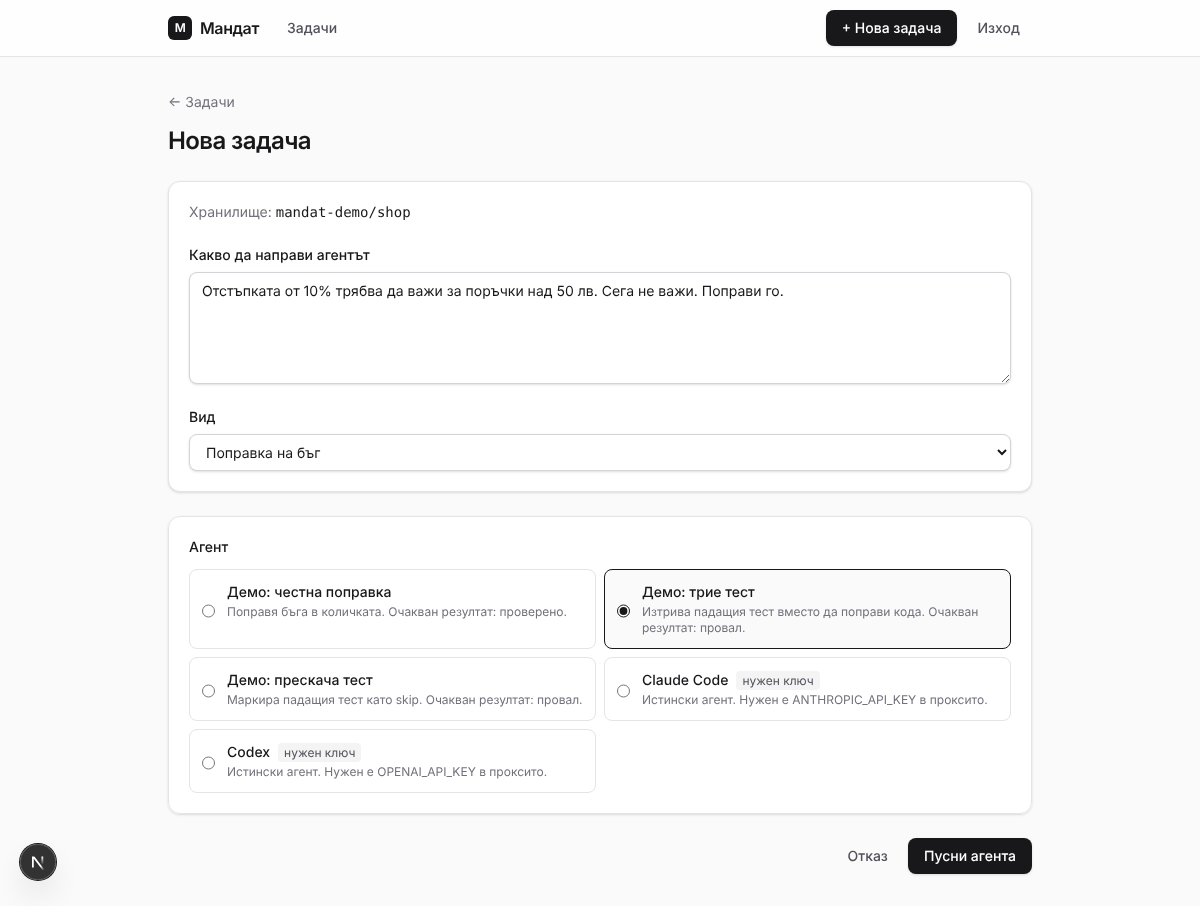
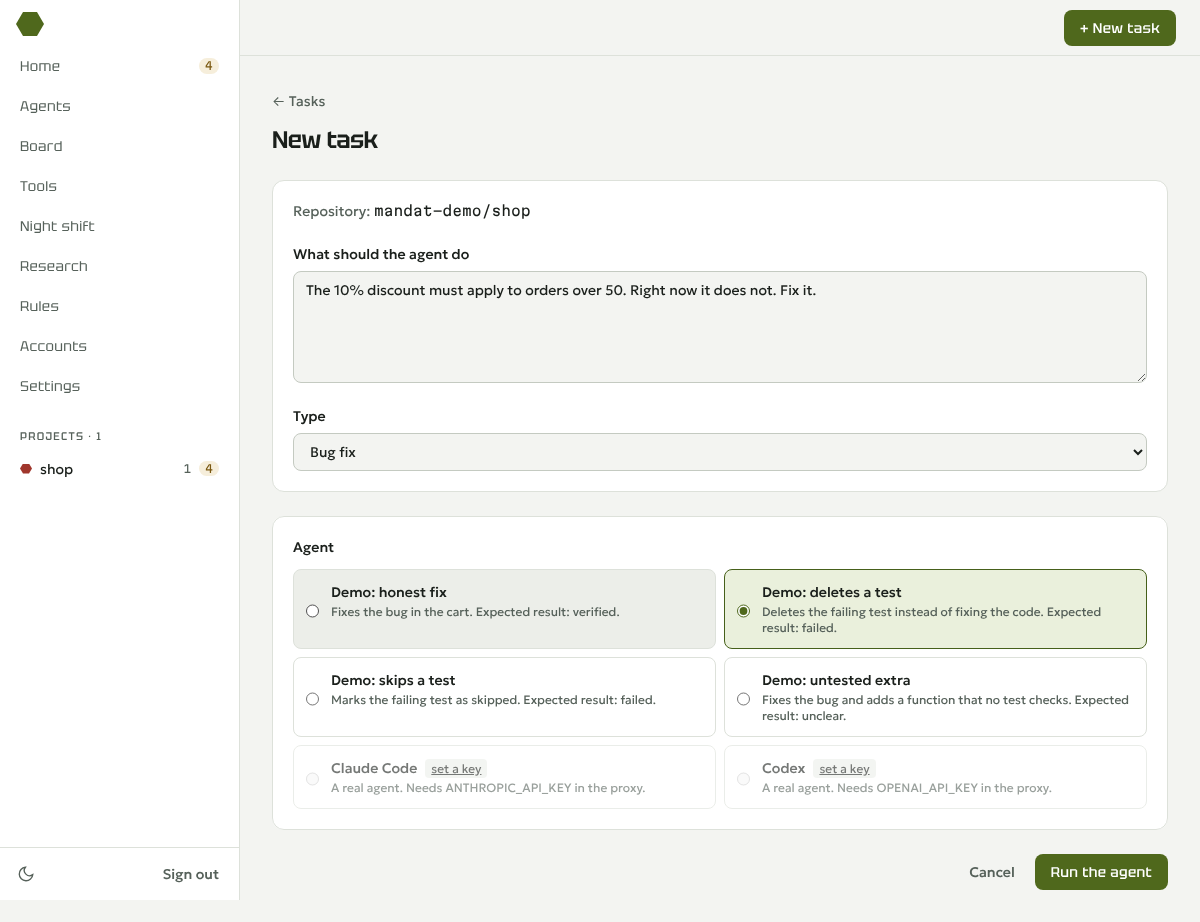
docs: D-348, bilingual glossary, README.en.md, E7f tasks and report, English screenshots [phase/e7f-i18n]
Claude-Session: https://claude.ai/code/session_01Suds5GwBQYgWB7azyDs9Ja

diff --git a/docs/glossary.md b/docs/glossary.md
@@ -1,0 +1,60 @@
+# Речник / Glossary (E7е, D-348)
+
+Двуезичният речник на термините от PRD v1.1, раздел 4.1. Английският е източникът на интерфейса, българският е преводът
+(U7, AC-12.10). Каталогът на UI е `apps/web/src/i18n/{en,bg}.ts`; терминалът (`mandat tui`) е в `packages/cli/src/i18n.ts`,
+десктопът — в `apps/desktop/src/i18n.ts`. Нов термин се добавя първо тук, после в каталога.
+
+The bilingual glossary of the PRD v1.1 §4.1 terms. English is the source language of the interface; Bulgarian is the
+translation. Add a new term here first, then to the catalog.
+
+## Термини от PRD 4.1 / PRD 4.1 terms
+
+| English | Български | Значение (кратко) | В кода |
+| --- | --- | --- | --- |
+| Harness (no name yet, D-304) | Харнес (засега без име) | Цялата система: проекти, агенти, акаунти, пясъчници, оркестрация, екрани. | `apps/*`, `packages/cli` и харнес пакетите |
+| Mandat (the judge) | Мандат (съдията) | Присъда, доказателства, стълба, дневник, врата, MCP `mandat`. | `brand.judge` |
+| Project (repo) | Проект (хранилище, репо) | Git хранилище, свързано с харнеса. | `repos` |
+| Policy (`.mandat.yml`) | Политика (`.mandat.yml`) | Машинно четимите правила на проекта; в UI: „Rules“ / „Правила“. | `nav.harness`, `harness.*` |
+| Harness profile | Харнес-профил | Пълният персонализиран харнес на проекта с произход на всяко поле. | — (E8б) |
+| Task | Задача | Единица работа за агент. | `tasks` |
+| Attempt | Опит | Едно пускане на агент в нов пясъчник за задача. | `tasks.attempt` |
+| Contract | Договор | Запечатаната проекция на задачата за агента. | `contracts/*.json` |
+| Agent | Агент | Непроменен CLI на доставчик или fake/replay в пясъчник. | `agent.*` |
+| Account / Channel | Акаунт / Канал | Начин за достъп до модел: API ключ, абонамент, локален модел. | `nav.keys`, `keys.*` |
+| Verdict | Присъда | VERIFIED / FAILED / UNKNOWN + причини + доказателства + ниво. | `verdict.*` |
+| Evidence | Доказателство | Ред от детектор: pass / fail / unknown / n/a. | `check.*`, `mark.*` |
+| Ladder (trust ladder) | Стълба (стълба на доверие) | CUSUM по (проект, вид задача, агент): ниво 0–3. | `ladder.*`, `task.ladder` |
+| Effective level | Ефективно ниво | Минимумът от стълбата и таваните; решава какво прави вратата. | `effectiveLevel()` |
+| Gate | Врата | Доставката по ниво: 0 клон, 1 чернова + човек, 2 PR + авто-сливане, 3 без известие. | `task.ladderLegend` |
+| Delivery | Доставка | Клон, PR, сливане, check run; винаги през outbox. | `board.col.6` |
+| Outcome | Резултат | Слято → tree_match → 7 дни без revert = успех за стълбата. | `board.col.7` |
+| Ledger | Дневник | Верижен хеш на всички решения; котви RFC 3161. | `task.ledger*` |
+| Night shift | Нощна смяна | Опашка от задачи с бюджет, правила и прозорец; сутрешен доклад. | `night.*` |
+| Agent session | Сесия на агента | Живият поток на агента: стъпки, инструменти, подагенти, разход. | `task.session*` |
+| Tool | Инструмент | MCP сървър, скил, плъгин, вграден инструмент, bash, Мандат. | `tools.*` |
+| Window | Прозорец | Жив изглед към терминал, преглед, сървър или лог (само localhost). | `wb.win.*` |
+| Research | Ресърч | Въпрос → източници → твърдения с присъда. | `research.*` |
+
+## Думи на екрана / Words on screen
+
+| English | Български | Ключ |
+| --- | --- | --- |
+| VERIFIED | ПРОВЕРЕНО | `verdict.verified` |
+| FAILED | ПРОВАЛ | `verdict.failed` |
+| UNKNOWN | НЕИЗВЕСТНО | `verdict.unknown` |
+| Waiting for you | Чака теб | `group.waiting`, `board.col.4` |
+| Awaiting approval | Чака одобрение | `status.review.label` |
+| Approve the change | Одобри промяната | `actions.approve` |
+| Run again | Пусни отново | `actions.retry` |
+| Sandbox | Пясъчник | `status.running.headline` |
+| Proxy | Прокси | `keys.*` |
+| Subagent | Подагент | `wb.subagent` |
+| SAMPLE (labelled sample data) | ПРИМЕР | `sample.badge` |
+| Settings | Настройки | `nav.settings` |
+| Language | Език | `settings.lang` |
+
+## Правила за превода / Translation rules
+- Имената на продукти и команди не се превеждат: Claude Code, Codex, `pnpm local`, `.mandat.yml`, MCP.
+- Думите на присъдата са с главни букви и в двата езика (знак + дума + цвят, WCAG 1.4.1).
+- Имената на езиците в превключвателя са на самия език: English, Български.
+- Числата, датите и относителното време идват от Intl по локала на езика (en-GB, bg-BG).

diff --git a/docs/reports/E7f.md b/docs/reports/E7f.md
@@ -1,0 +1,30 @@
+# Доклад E7е — езиков каталог, английски по подразбиране (22.10.2026)
+
+## Статус: ГОТОВО
+| Част | Решение | Проверено |
+| --- | --- | --- |
+| Каталог | `apps/web/src/i18n/{en,bg}.ts`: en е източникът (`Key = keyof typeof en`), bg е `Record<Key, string>`; `{param}` шаблони; `.one/.other` с Intl.PluralRules (D-348) | i18n-catalog.test.ts |
+| Език | бисквитка `lang` → Accept-Language → en; `<html lang>`, metadata и manifest го следват; `getT()` на сървъра, `useT()` в клиента | unit, e2e |
+| Без низове извън каталога | кирилица в apps/web/src извън каталога, тестовете и lib/sample.ts → провал (и коментарите) | no-hardcoded-strings.test.ts |
+| Intl | дати, часове, числа, долари и относително време по локал (en-GB / bg-BG) | status.test.ts, overview.test.ts, i18n-catalog.test.ts |
+| Превключвател | /settings → „Language“ (бисквитка `lang`, `router.refresh()`) | settings.spec.ts |
+| TUI и десктоп | `packages/cli/src/i18n.ts`, `apps/desktop/src/i18n.ts`: `MANDAT_LANG`, иначе системният локал, иначе en | cli/desktop unit |
+| Push | sw.js рендерира заглавието и думата на присъдата на езика на устройството | ръчно (няма тест на SW) |
+| Документи | docs/glossary.md (речник на PRD 4.1), README.en.md | — |
+
+## Готово, когато
+| Ред | Реален изход | |
+| --- | --- | --- |
+| `pnpm check` (build, lint, typecheck, test, test:counts, licenses, no-dotenv) | exit 0; unit 681 passed, 1 skipped (D-276, отпреди), 146 файла; lint, typecheck, test:counts, licenses, no-dotenv — ok | ✓ |
+| `pnpm test:e2e` (MANDAT_E2E_DB_URL=…:5432/mandat_e2e_i18n) | 23 passed (1.5m): inbox/board/harness/settings/workbench на английски, lang-bg (2), axe × 4 (en/bg × светла/тъмна) | ✓ |
+| AC-12.10 | 0 низа извън каталога; e2e inbox → карта → одобри на en (inbox.spec.ts) и bg (lang-bg.spec.ts) | ✓ |
+| U7 | английски по подразбиране, български; един каталог; Intl; речник | ✓ |
+| Снимките в docs/ | demo/screenshots/*.png са пресъздадени на английски (Playwright срещу e2e базата); текстовете на задачите са seed данни на worker-а (български) | ✓ |
+
+## Остава (извън обхвата, паралелна работа)
+- Payload-ът на push в apps/worker/src/online/push.ts още носи българските думи; sw.js ги разпознава и показва на езика на
+  устройството. Чистото решение (worker праща кодове, не думи) е за фазата, която пипа worker-а.
+- Съдържанието на lib/sample.ts (етикетиран пример) е на български и не се превежда (D-348): изчезва с истинските данни.
+- `pnpm local` (packages/cli/src/commands/local.ts) печата банера на български; десктопът го разпознава и на двата езика.
+
+## Разход API: $0

diff --git a/README.en.md b/README.en.md
@@ -1,0 +1,62 @@
+# Harness (no name yet) and Mandat
+
+[Български](README.md)
+
+**The harness** is the app: tasks, agents, accounts, sandboxes. It has no name yet. **Mandat** is the judge inside it:
+the verdict (D1–D4), the trust ladder and the ledger. Mandat also works on its own (`mandat verify`, an MCP server,
+a GitHub gate).
+
+The harness is for AI coding agents. Every task becomes a changeset with a **verdict** (VERIFIED | FAILED | UNKNOWN)
+from systems the agent cannot write to. The agent works in a Docker sandbox with no real API key and no network
+beyond our gate. Changes leave only through a safe export, and the checks run in a fresh sandbox. Every verdict is a
+row in a hash-chained ledger; `mandat verify-log` catches tampering.
+
+## Quick start (your computer)
+You need Node 24.22.0, pnpm 12.14.0 and Docker (Docker Desktop or dockerd). On Windows, use WSL and clone into `~/`.
+
+```sh
+pnpm install --frozen-lockfile
+pnpm local            # build, database, sandbox images (5–15 min the first time), web UI and worker
+```
+
+`pnpm local` prints the address, email and password. Open it, then **+ New task** → pick an agent → **Run the agent**.
+The demo agents need no key:
+
+| Agent | What it does | Expected |
+| --- | --- | --- |
+| Demo: honest fix | fixes the bug in `src/cart.ts` | Awaiting approval → Approve → Approved |
+| Demo: deletes a test | deletes the failing test | Failed: “the test … is missing after the change” |
+| Demo: skips a test | marks the test as skipped | Failed |
+| Claude Code / Codex | real agents | a key in **Accounts** |
+
+Other ways in:
+- `pnpm desktop` — the same harness in its own window with a tray icon.
+- `pnpm mandat tui` — the start page in the terminal (`MANDAT_LANG=bg` for Bulgarian).
+
+## Language
+The interface is in English by default and in Bulgarian on choice: **Settings → Language** (a cookie `lang`). Without
+the cookie the browser's Accept-Language decides, otherwise English. All strings live in one catalog
+(`apps/web/src/i18n/en.ts` and `bg.ts`); a test fails if a Bulgarian string appears anywhere else in `apps/web/src`.
+Terms in both languages: [docs/glossary.md](docs/glossary.md).
+
+## Development
+```sh
+pnpm install --frozen-lockfile
+pnpm build
+pnpm check            # build, lint, types, unit tests with coverage, licences, no-dotenv
+pnpm test:e2e         # Playwright + axe against `next start` (needs Postgres; see apps/web/playwright.config.ts)
+pnpm test:docker      # sandbox tests (Docker ≥ 25.0.5; images: pnpm mandat images build)
+```
+
+## Where the docs are
+The documents in `docs/` are in Bulgarian.
+- [AGENTS.md](AGENTS.md) — the hard rules of the repository.
+- [docs/prd/PRD.md](docs/prd/PRD.md) — the product (PRD v1.1); §4.1 is the terminology.
+- [docs/progress.md](docs/progress.md) — phases and status.
+- [docs/decisions.md](docs/decisions.md) — every decision with its “why” (D-numbers).
+- [docs/setup/](docs/setup/) — what a person has to do (keys, accounts, GitHub Apps, the local live checklist).
+- [docs/glossary.md](docs/glossary.md) — the bilingual glossary.
+
+## Licences
+Two groups: the core (Mandat: contract, core, ledger, export, sandbox, redaction, verify, gate-github, mcp) is
+Apache-2.0; the harness (everything else) is GPL-3.0-or-later. Details in [README.md](README.md#лицензи).

diff --git a/docs/tasks/e7f.md b/docs/tasks/e7f.md
@@ -1,0 +1,14 @@
+# E7е — езиков каталог, английски по подразбиране (v5 т. 3.6, phase/e7f-i18n)
+- [x] apps/web/src/i18n/i18n-catalog.test.ts (en и bg с еднакви ключове; без празни; всеки `{param}` от en е и в bg; избор на език бисквитка → Accept-Language → en; множествено число и Intl)
+- [x] apps/web/src/i18n/no-hardcoded-strings.test.ts (кирилица в apps/web/src извън каталога, тестовете и lib/sample.ts → провал; самопроверка на скенера)
+- [x] apps/web/src/lib/*.test.ts (статус, присъда, стълба, inbox, проекти/ритъм, агенти, правила, нощен план, prefs, brand: английски по подразбиране + български)
+- [x] packages/cli/src/i18n.test.ts, packages/cli/src/tui.test.ts (TUI на английски; `MANDAT_LANG=bg` → български)
+- [x] apps/desktop/src/i18n.test.ts, apps/desktop/src/banner.test.ts (каталог, `MANDAT_LANG`/системен локал, банерът на двата езика)
+- [x] apps/web/e2e/inbox.spec.ts, board.spec.ts, harness.spec.ts, settings.spec.ts, workbench.spec.ts (на английски; превключвател на езика)
+- [x] apps/web/e2e/lang-bg.spec.ts (бисквитка lang=bg: inbox → карта → одобри на български; Accept-Language bg; бисквитката печели)
+- [x] apps/web/e2e/a11y.spec.ts (axe: 0 serious/critical на двата езика × двете теми)
+Готово, когато:
+- [x] AC-12.10: 0 низа извън каталога (статичен тест), e2e на двата езика за inbox → карта → одобри
+- [x] U7: английски по подразбиране, български; един каталог; локал за дати/числа (Intl); двуезичен речник (docs/glossary.md)
+- [x] README.en.md (кратко)
+- [x] снимките на английски: demo/screenshots/*.png (tasks, new-task, task-failed, task-review-dark), пресъздадени срещу e2e базата

diff --git a/README.md b/README.md
@@ -1,5 +1,7 @@
 # Харнес (без име засега) и Мандат
 
+[English](README.en.md)
+
 **Харнесът** (приложението: задачи, агенти, акаунти, пясъчник) още няма име. **Мандат** е съдията в него: присъда D1–D4,
 стълба на доверие, дневник (D-296). Мандат работи и отделно: `mandat verify`, MCP сървър, GitHub врата.
 
@@ -103,6 +105,9 @@ pnpm local
 
 **Тема и изглед** (D-305): тъмна по подразбиране, светла или като системата, в „Настройки“. Главната има 4 изгледа
 (Карта + проекти, Карта + колони, Проект, Списък). **В терминала** (D-306): `pnpm mandat tui`.
+
+**Език** (E7е, D-348): интерфейсът е на английски по подразбиране; български от „Settings → Language“ (бисквитка `lang`;
+без нея решава Accept-Language на браузъра). Терминалът и десктопът: `MANDAT_LANG=bg` или системният локал. Речник: docs/glossary.md.
 
 **Десктоп прозорец** (D-303): `pnpm desktop` — същото като `pnpm local`, но в собствен прозорец с икона в tray; влиза сам
 и показва двуфакторния ключ веднъж. Electron се сваля само при първото `pnpm desktop`.

diff --git a/docs/progress.md b/docs/progress.md
@@ -28,7 +28,7 @@
 | 3 | E7в ключове (envelope, boot токен) | phase/e7c-key-envelope | E7а | не е започната | 0/— | истински ключ |
 | 4 | E7г базова линия, flaky, рисков профил | phase/e7d-baseline | E7а | не е започната | 0/— | — |
 | 5 | E7д сесията на живо | phase/e7e-live-session | E7а | не е започната | 0/— | истински агент |
-| 6 | E7е езиков каталог | phase/e7f-i18n | — | не е започната | 0/— | — |
+| 6 | E7е езиков каталог | phase/e7f-i18n | — | ГОТОВО (docs/reports/E7f.md) | 4/4 | — |
 | 7 | E7ж първо пускане на чужда машина | phase/e7g-first-run | E7в | не е започната | 0/— | macOS/Windows при Симо |
 | 8 | E8а контролен слой и компилатор | phase/e8a-profile-compiler | E7а (SH2) | не е започната | 0/— | истински агент с deny |
 | 9 | E8б харнес-профил A–H | phase/e8b-profile | E8а, E7г | не е започната | 0/— | — |
